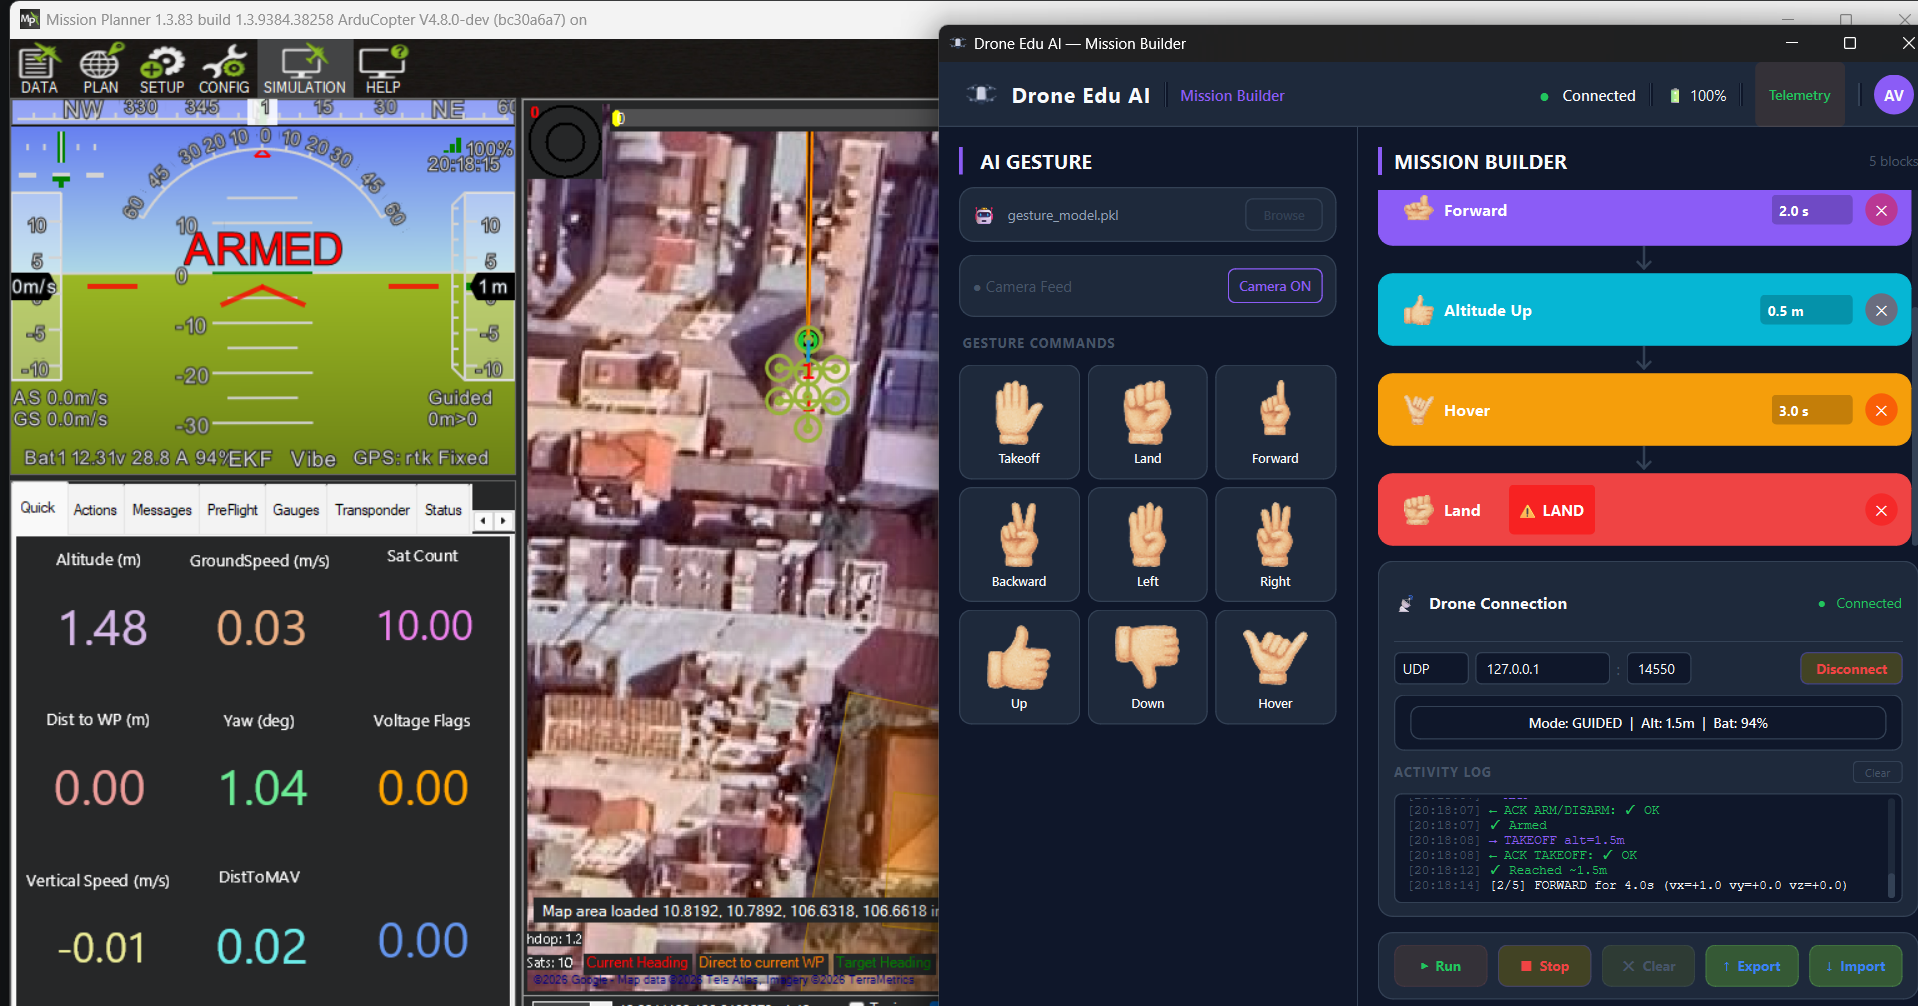
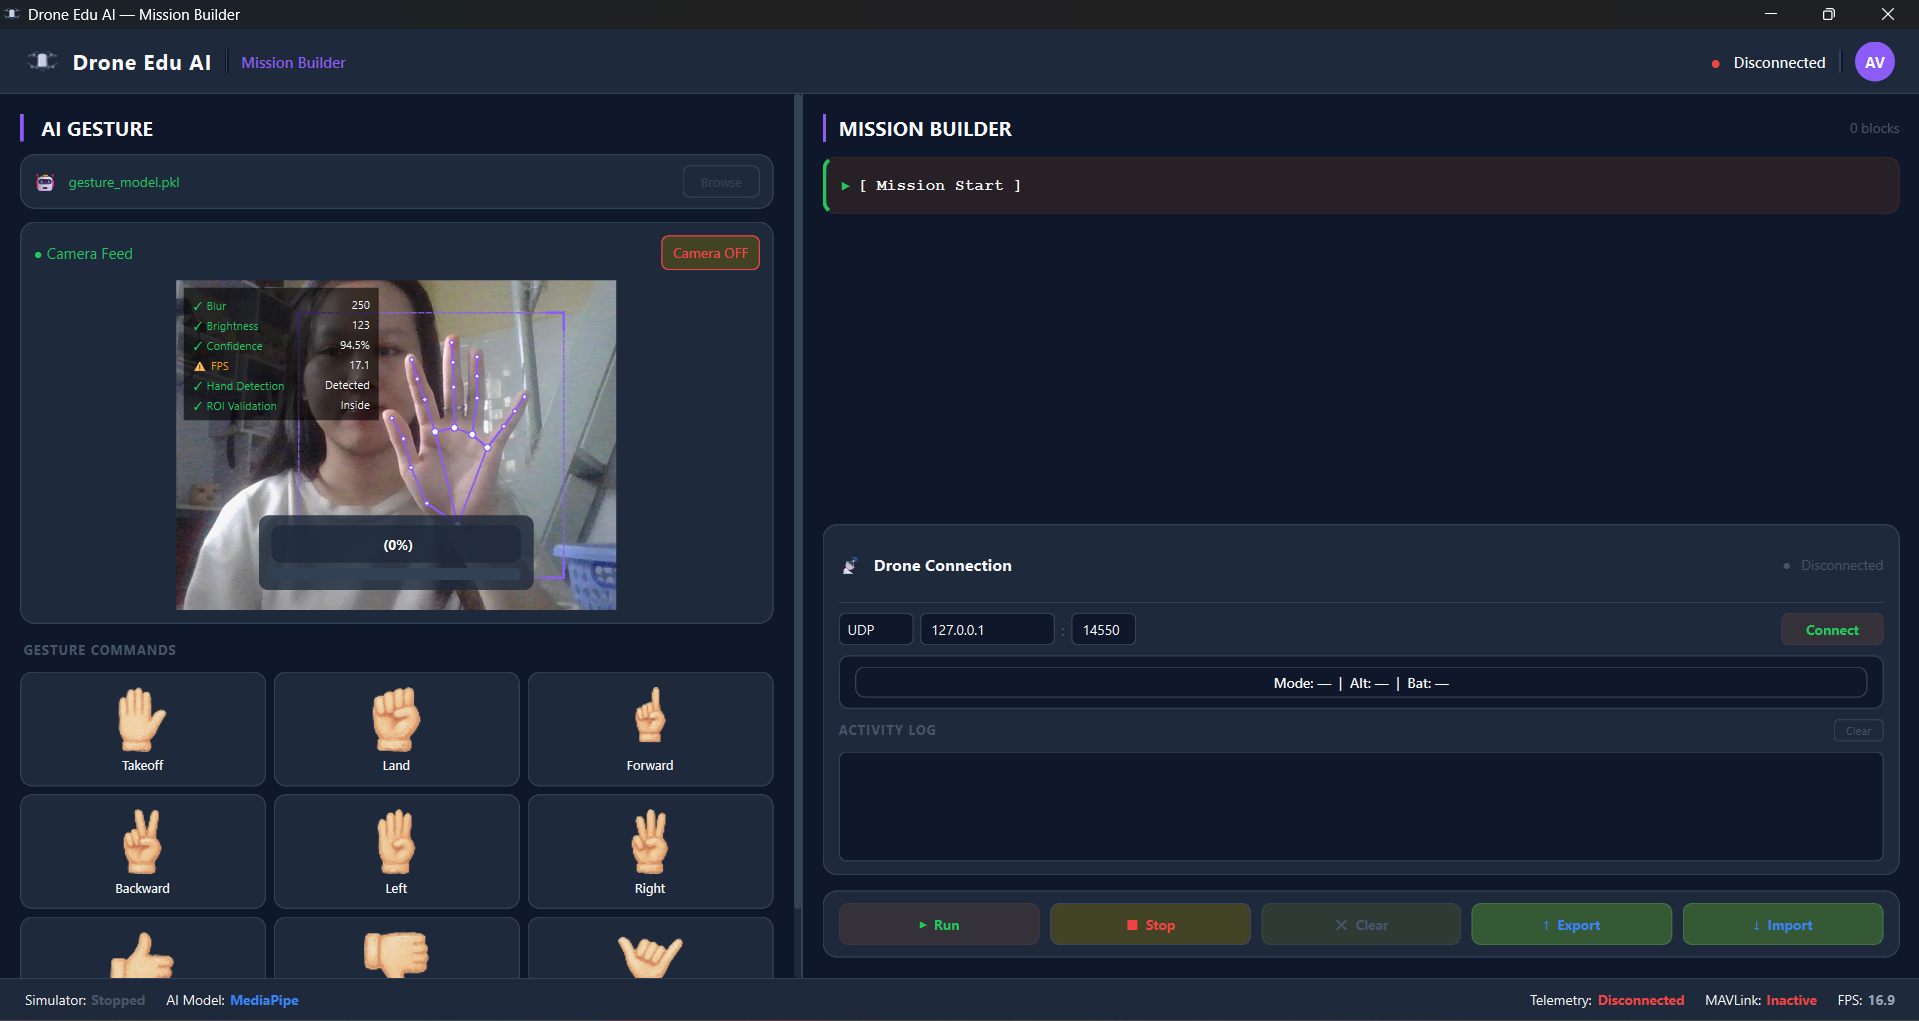
update readme

diff --git a/README.md b/README.md
@@ -21,7 +21,7 @@ Dự án được chia thành nhiều ứng dụng và module con, mỗi phần 
 **DroneEduAI** là ứng dụng chính của dự án, được phát triển dưới dạng Desktop App sử dụng nền tảng **PySide6 (Qt Framework)** với giao diện Dark Theme hiện đại.
 
 ### Các tính năng chính:
-
+![alt text](image-2.png)
 1. **AI Gesture Control (Điều khiển bằng cử chỉ)**
    - Sử dụng **MediaPipe Hands** để lấy tọa độ khung xương tay (Landmarks) với tốc độ cao.
    - Phân loại cử chỉ theo thời gian thực bằng thuật toán học máy **Logistic Regression (scikit-learn)**.
@@ -32,14 +32,12 @@ Dự án được chia thành nhiều ứng dụng và module con, mỗi phần 
    - Người dùng có thể kéo thả các thẻ lệnh (Block Cards) như: Takeoff, Land, Forward, Hover...
    - Tùy chỉnh thông số cho từng khối lệnh (độ cao, thời gian bay, khoảng cách).
    - Hỗ trợ lưu và tải các kịch bản bay (Mission) dưới dạng JSON.
-![alt text](<Screenshot 2026-08-11 155348.png>)
-
+![alt text](image.png)
 3. **Điều khiển & Giám sát Drone (MAVLink/ArduPilot)**
    - Giao tiếp trực tiếp với Flight Controller (chạy ArduPilot) thông qua giao thức **PyMAVLink**.
    - Cung cấp trạng thái thời gian thực (Telemetry) bao gồm pin, chế độ bay, và chất lượng tín hiệu.
    - Hỗ trợ kiểm thử kịch bản thông qua môi trường mô phỏng (SITL) trước khi triển khai bay thực tế.
-![alt text](image.png)
-
+![alt text](image-1.png)
 ## 🛠 Yêu cầu hệ thống
 - Python 3.9+
 - Các thư viện yêu cầu: `PySide6`, `mediapipe`, `opencv-python`, `scikit-learn`, `pymavlink` (có thể cài đặt qua file `requirements.txt`).
